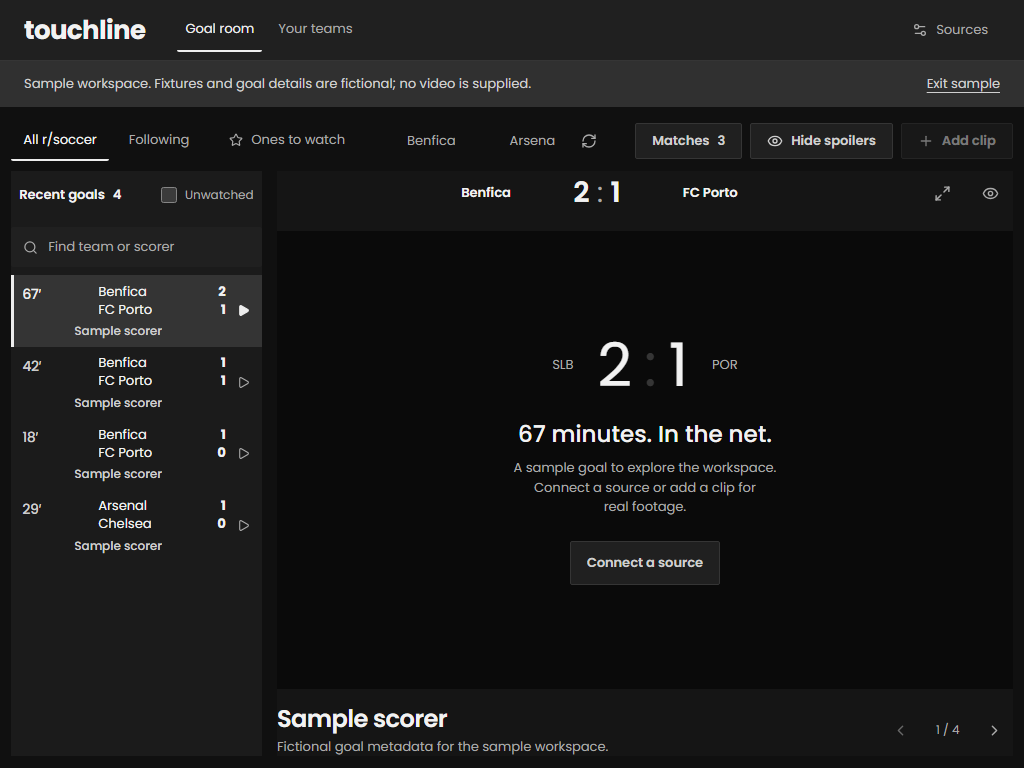
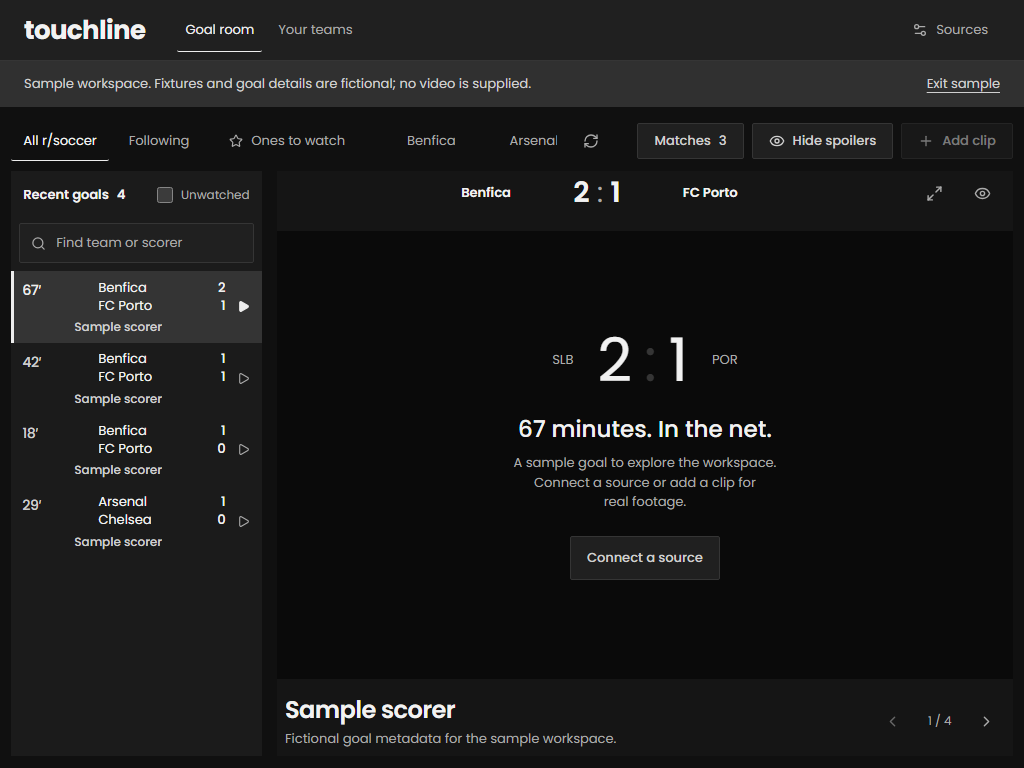
Polish content insets selection states and keyboard focus

diff --git a/web/src/style.css b/web/src/style.css
@@ -2647,7 +2647,9 @@ summary:focus-visible {
   background: var(--color-feed-surface);
   color: var(--color-ink);
 }
-.goal-row:hover,
+.goal-row:hover {
+  background: var(--color-feed-hover);
+}
 .goal-row.selected {
   background: var(--color-feed-selected);
 }
@@ -2665,7 +2667,9 @@ summary:focus-visible {
   background: var(--color-matches-surface);
   color: var(--color-ink);
 }
-.fixture:hover,
+.fixture:hover {
+  background: var(--color-match-hover);
+}
 .fixture.selected {
   background: var(--color-match-selected);
 }
@@ -2699,5 +2703,70 @@ summary:focus-visible {
 @media (max-width: 760px) {
   .topbar .brand {
     font-size: 20px;
+  }
+}
+
+/* Finish: shared insets, readable emphasis and focus that survives clipping. */
+.goal-queue .section-bar,
+.match-rail .section-bar,
+.fixture {
+  padding-inline: var(--space-sm);
+}
+.goal-search {
+  margin: var(--space-2xs) var(--space-xs) var(--space-xs);
+}
+.goal-search input {
+  border: 1px solid var(--color-rule);
+}
+.goal-search input:focus-visible {
+  outline-offset: 1px;
+}
+.player-header {
+  padding-inline: var(--space-xs);
+}
+.clip-details {
+  padding: var(--space-xs);
+}
+.post-details p:last-child {
+  margin-bottom: var(--space-xs);
+}
+.clip-details h2 {
+  line-height: 1.25;
+}
+.goal-team b,
+.fixture-teams b {
+  font-weight: 500;
+}
+.goal-row:focus-visible,
+.fixture-teams:focus-visible,
+.fixture .icon-button:focus-visible {
+  outline-offset: -2px;
+}
+.goal-row.selected:focus-visible {
+  outline-width: 1px;
+}
+.topbar nav button,
+.feed-tabs > button {
+  border-bottom-width: 1px;
+}
+.quiet {
+  border-color: var(--color-rule);
+  font-weight: 500;
+}
+.quiet:hover {
+  border-color: var(--color-surface-edge);
+}
+.icon-button[aria-pressed="true"] {
+  background: var(--color-paper-3);
+}
+.clip-navigation .icon-button {
+  min-width: 36px;
+}
+@media (max-width: 760px) {
+  .clip-details {
+    align-items: flex-start;
+  }
+  .scoreboard-result {
+    gap: var(--space-2xs);
   }
 }

diff --git a/web/src/tokens.css b/web/src/tokens.css
@@ -17,9 +17,11 @@
   --color-inset: #0a0a0a;
   --color-feed-surface: #1b1b1b;
   --color-feed-selected: #343434;
+  --color-feed-hover: #262626;
   --color-player-surface: #151515;
   --color-matches-surface: #242424;
   --color-match-selected: #3a3a3a;
+  --color-match-hover: #303030;
   --font-body: "Poppins", Arial, sans-serif;
   --font-display: "Poppins", Arial, sans-serif;
   --font-mono: "Poppins", Arial, sans-serif;
